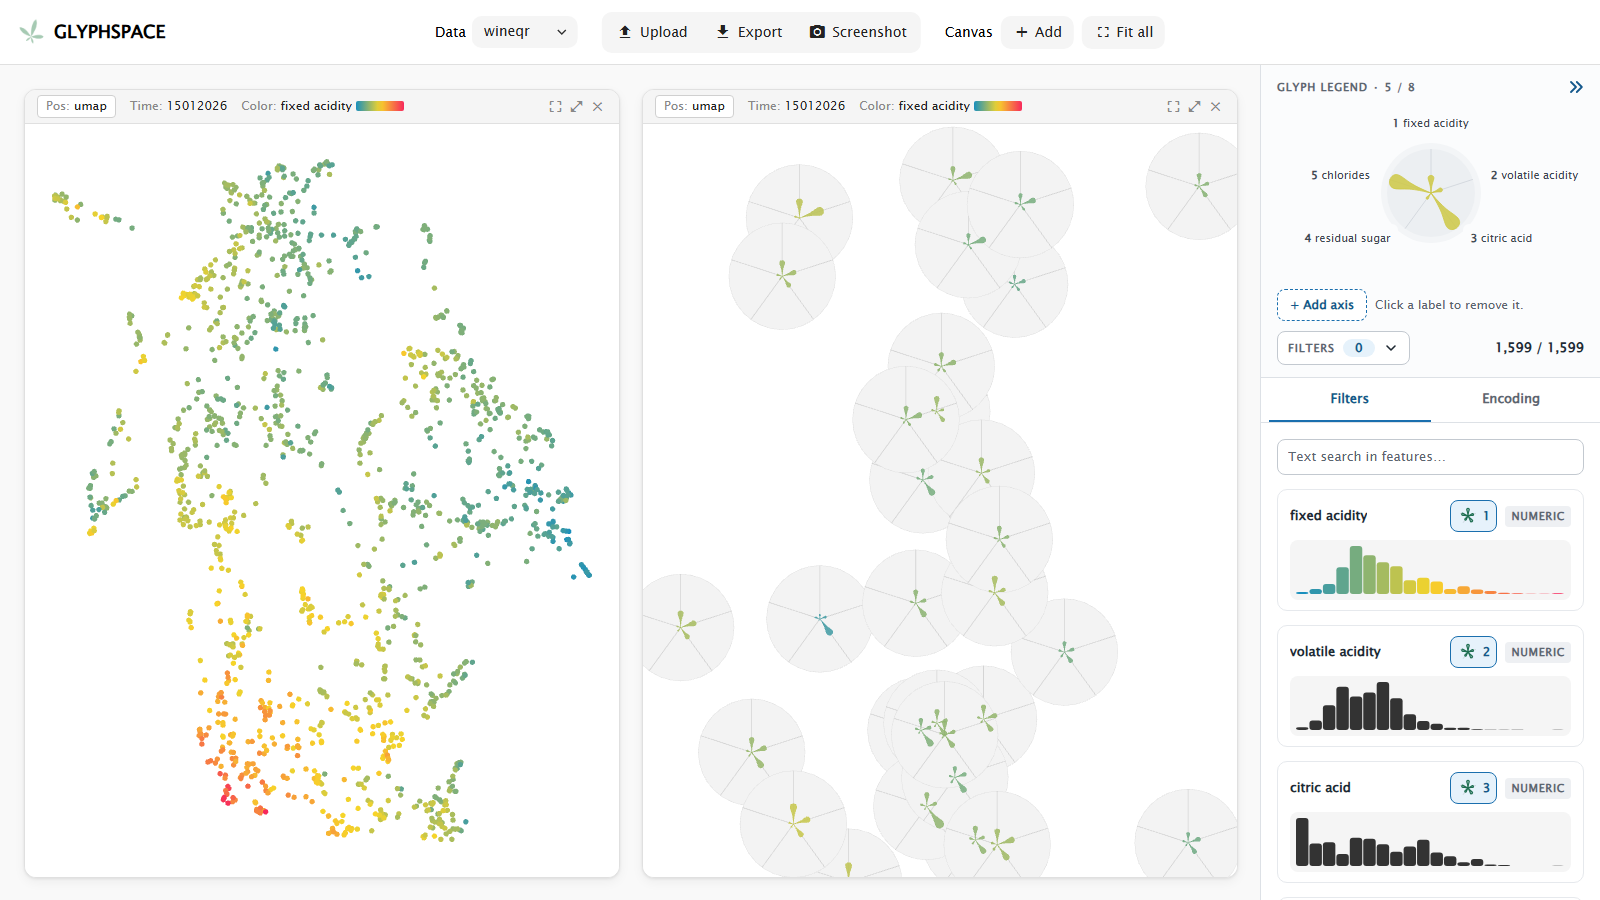
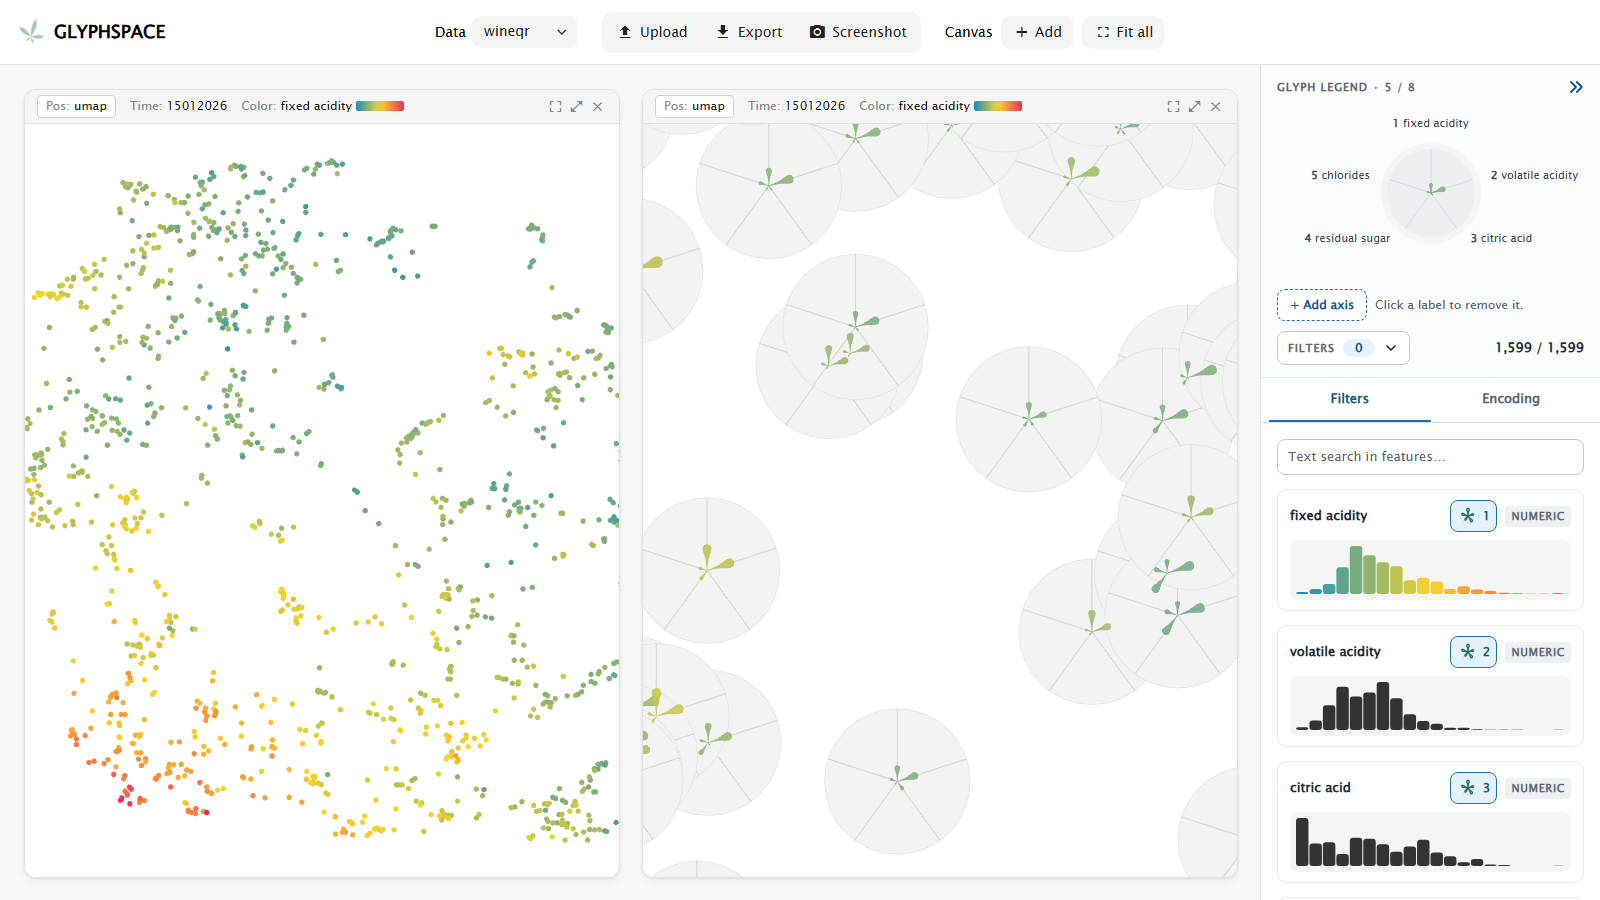
docs: link the PRs in the changelog, new dashboard screenshot
- Every Unreleased entry links its pull request (#93 to #97), as
  docs/development/documentation.md asks; the entry on the glyph type
  buttons says what users notice instead of which files changed.
- dashboard.md: the collision force follows every configuration change.
- New dashboard screenshot (README, getting started) from the deployed
  site: glyph sizes and full-detail drawing as of #97.

diff --git a/CHANGELOG.md b/CHANGELOG.md
@@ -8,25 +8,25 @@ GlyphSpace has no version numbers yet, so releases are named by the date they re
 
 ### Added
 
-- Documentation in `docs/`: a user guide, specifications of the data formats and worker protocols, architecture decision records, and development guides. This changelog.
+- Documentation in `docs/`: a user guide, specifications of the data formats and worker protocols, architecture decision records, and development guides. This changelog (#93).
 - Item images for imported datasets: Step 1 of the wizard takes an optional ZIP file with one picture per item, named after the item's ID (JPG, PNG or WebP). The **Image** glyph type shows them, and the dataset keeps them in the browser (#92).
 - A **Size** slider in the sidebar's **Encoding** tab sets dots and glyphs together: a typical glyph of the dataset reaches about as far as the dot it replaces, so items keep their size when zooming from dots to glyphs (#90).
 
 ### Changed
 
-- The wizard redesign ticket list moved from `ROADMAP.md` to [docs/specs/wizard-redesign.md](docs/specs/wizard-redesign.md).
-- Node 26 (`.nvmrc`; `package.json` requires 26 or newer), Angular 22.2, TypeScript 6.0, Vitest 5.1, three.js 0.187, lint-staged 17, Playwright 1.65 and the latest minor versions of the other packages. After pulling, install Node 26 and run `npx playwright install chromium` once. Existing components keep their change detection; new components use OnPush, Angular 22's default ([ADR 0011](docs/decisions/0011-existing-components-keep-eager-change-detection.md)). The HTTP client uses Angular's default `fetch` backend.
-- The wizard runs on Pyodide 314.0.7: Python 3.14, pandas 3.0, scikit-learn 1.8, numpy 2.4. The download stays about the same (about 40 MB). One-hot and label encoding of numeric columns no longer fill text into a number column, which pandas 4 will reject.
+- The wizard redesign ticket list moved from `ROADMAP.md` to [docs/specs/wizard-redesign.md](docs/specs/wizard-redesign.md) (#93).
+- Node 26 (`.nvmrc`; `package.json` requires 26 or newer), Angular 22.2, TypeScript 6.0, Vitest 5.1, three.js 0.187, lint-staged 17, Playwright 1.65 and the latest minor versions of the other packages. After pulling, install Node 26 and run `npx playwright install chromium` once. Existing components keep their change detection; new components use OnPush, Angular 22's default ([ADR 0011](docs/decisions/0011-existing-components-keep-eager-change-detection.md)). The HTTP client uses Angular's default `fetch` backend (#95).
+- The wizard runs on Pyodide 314.0.7: Python 3.14, pandas 3.0, scikit-learn 1.8, numpy 2.4. The download stays about the same (about 40 MB). One-hot and label encoding of numeric columns no longer fill text into a number column, which pandas 4 will reject (#95).
 - The sidebar was redesigned (#90). On top, the glyph legend shows the glyph with numbered axes; axes are added with **+ Add axis** and removed from their label, between 3 and 8 per glyph. Below it, **FILTERS** lists every active filter, search terms included, next to the number of matching items. The **Filters** tab marks the glyph's features on their cards and adds or removes them there; the **Encoding** tab holds glyph type, colour and appearance. The whole sidebar can be hidden.
 - Glyph axes follow the order of the glyph features: axis 1 points up, the others follow clockwise, and an added feature becomes the last axis. Canvases, legend and the wizard's Step 5 preview draw them the same way (#90).
 - New categorical palettes: Glasbey, Tableau 10 and Colorblind, none with grey, which marks filtered-out items. Categories take the colours in order, in the glyphs and the histograms alike. The new palettes have new ids; datasets and wizard settings saved with Observable10 or Tableau20 open with Glasbey or Tableau 10 (#89).
 - The flower glyph has Glyphboard's petal shape. The axes behind a glyph are lighter and thinner, and the contour ring lies behind the data (#91).
 - Dot and glyph sizes no longer depend on the screen's pixel ratio or the canvas size (#90).
-- When zooming in beyond the dots, glyphs grow more slowly than the distances between them, so overlapping glyphs separate; at the highest zoom they are smaller than before ([ADR 0012](docs/decisions/0012-glyphs-grow-slower-than-the-zoom.md)).
-- The magic lens shows the items nearest the cursor in their arrangement on the canvas, as large as they fit without overlapping. Before, it scattered them at random and they piled up along its border. When more items are under the cursor than the lens shows, the ring around the cursor shrinks to the area it shows. The lens is 300 px wide (was 250).
-- Zooming from dots to glyphs no longer stalls the page as long: a flower glyph is drawn as one shape and one outline instead of one per petal, and the flower outline only at the highest zoom level, where it is visible.
+- When zooming in beyond the dots, glyphs grow more slowly than the distances between them, so overlapping glyphs separate; at the highest zoom they are smaller than before ([ADR 0012](docs/decisions/0012-glyphs-grow-slower-than-the-zoom.md)) (#97).
+- The magic lens shows the items nearest the cursor in their arrangement on the canvas, as large as they fit without overlapping. Before, it scattered them at random and they piled up along its border. When more items are under the cursor than the lens shows, the ring around the cursor shrinks to the area it shows. The lens is 300 px wide (was 250) (#94).
+- Zooming from dots to glyphs no longer stalls the page as long: a flower glyph is drawn as one shape and one outline instead of one per petal, and the flower outline only at the highest zoom level, where it is visible (#94).
 - The **Thumbnails** glyph type is now called **Image** (#90).
-- The glyph type buttons show a small star, flower or picture next to their name. **Image** is off for a dataset without item images, and such a dataset opens with **Star** instead of grey placeholders. `tools/process.py` marks bundled datasets that have images in `src/assets/thumbnails/` (`images: true` in `src/default-dataset.ts`).
+- The glyph type buttons show a small star, flower or picture next to their name. **Image** is off for a dataset without item images, and such a dataset opens with **Star** instead of grey placeholders (#96).
 
 ### Removed
 
@@ -43,15 +43,15 @@ GlyphSpace has no version numbers yet, so releases are named by the date they re
 - Reprocessing a dataset, or importing another file under the same name, replaces its items; before, old values could stay (#92).
 - Processing no longer fails when an ID contains a comma (#92).
 - **Clear all** no longer brings old search terms back on the next search (#92).
-- **Avoid collision** works with the new glyph size: it keeps apart what is drawn (dots, petals or stars, or whole circles with a background or axes) instead of full glyph circles, so the projection keeps its shape, and it adjusts when the zoom level changes.
+- **Avoid collision** works with the new glyph size: it keeps apart what is drawn (dots, petals or stars, or whole circles with a background or axes) instead of full glyph circles, so the projection keeps its shape, and it adjusts when the zoom level changes (#97).
 - A fill value that is neither true nor false for a true/false column is reported as K8 (#92).
 - Step 1's file requirements no longer promise that `-x`/`-y` and latitude/longitude columns become positions; only the command-line tool uses them (#92).
 - The help on background projections points to the canvas's position settings (**Pos**) instead of controls that don't exist (#92).
-- Histograms in the hidden sidebar tab no longer cause invalid SVG errors in the console.
+- Histograms in the hidden sidebar tab no longer cause invalid SVG errors in the console (#94).
 
 ### Security
 
-- All `npm audit` findings are fixed (2 critical, 7 high, 39 moderate), partly through `overrides` for minimatch and glob.
+- All `npm audit` findings are fixed (2 critical, 7 high, 39 moderate), partly through `overrides` for minimatch and glob (#94).
 
 ## 2026-11-09: Wizard redesign
 

diff --git a/docs/development/dashboard.md b/docs/development/dashboard.md
@@ -20,7 +20,7 @@ All canvases show the same dataset, filters and selection. Each canvas chooses i
 | `GlyphCacheObject` | `glyph/glyph-cache-object.ts` | Item and canvas | Scaled position (`position`), d3 simulation state (`x`, `y`, `vx`, `vy`), the current `mesh`, `visible`, `isClustered`, `isClusterRepresentative` |
 | `GlyphConfiguration` | `glyph/glyph-configuration.ts` | App (inside `ConfigService`) | Glyph type (default Star), the appearance toggles and the item size. The Encoding tab offers `useCoordinateSystem`, `useBackground` and `useContour` (its `glyphOptions`) and a slider for `itemSize` in px, which the setter rounds and clamps to `ITEM_SIZE_PX` (2–20, default 6) from `glyph/glyph-size-info.ts`; `useLabels`, `useCategories` and `scaleLinear` have no UI |
 | `GlyphRenderConfig` | `glyph/glyph-render-config.ts` | Render call | A plain snapshot of the `ConfigService` state that rendering needs, built by `buildGlyphRenderConfig(config, thumbnails)`. It keeps `GlyphObject` free of Angular services; images come through its `ThumbnailResolver` ([Thumbnails](#thumbnails)) |
-| `GlyphSizeInfo` | `glyph/glyph-size-info.ts` | Canvas (and magic lens) | Radius, contour thickness and hit tolerance for each zoom level. `setSizes(itemSize, reach)` sets the radii: low (the dot) is half the item size; medium and high are the same glyph radius, `pointRadius × GLYPH_REACH_IN_POINT_RADII / reach`, so a typical glyph reaches two dot radii ([ADR 0010](../decisions/0010-one-size-for-points-and-glyphs.md)). `reach` is `typicalGlyphReach` (`glyph/glyph-reach.ts`): the median longest axis of the items as a fraction of the radius, at least 0.25; 1 for Image glyphs. The canvas calls `setSizes` when a dataset is loaded and on every configuration change, axes included (`GlyphCanvasComponent.applyGlyphSizes`), and, if a size changed, updates the collision force and the spatial grid. The hit tolerances still depend on the device pixel ratio |
+| `GlyphSizeInfo` | `glyph/glyph-size-info.ts` | Canvas (and magic lens) | Radius, contour thickness and hit tolerance for each zoom level. `setSizes(itemSize, reach)` sets the radii: low (the dot) is half the item size; medium and high are the same glyph radius, `pointRadius × GLYPH_REACH_IN_POINT_RADII / reach`, so a typical glyph reaches two dot radii ([ADR 0010](../decisions/0010-one-size-for-points-and-glyphs.md)). `reach` is `typicalGlyphReach` (`glyph/glyph-reach.ts`): the median longest axis of the items as a fraction of the radius, at least 0.25; 1 for Image glyphs. The canvas calls `setSizes` when a dataset is loaded and on every configuration change, axes included (`GlyphCanvasComponent.applyGlyphSizes`), updates the collision force (`updateCollisionForce`) and, if a size changed, the spatial grid. The hit tolerances still depend on the device pixel ratio |
 
 **The render cache is keyed by canvas id only.** `GlyphObject.getCacheObject(owner, timestamp, algorithm)` uses `timestamp` and `algorithm` only when it creates the cache object. When a canvas switches projection, `GlyphCanvasComponent.onSettingsChange` rewrites `position`, `x` and `y` of the existing cache objects. Any new way of changing positions has to do the same. A destroyed canvas removes its entries with `glyph.clearCache(id)`.
 
